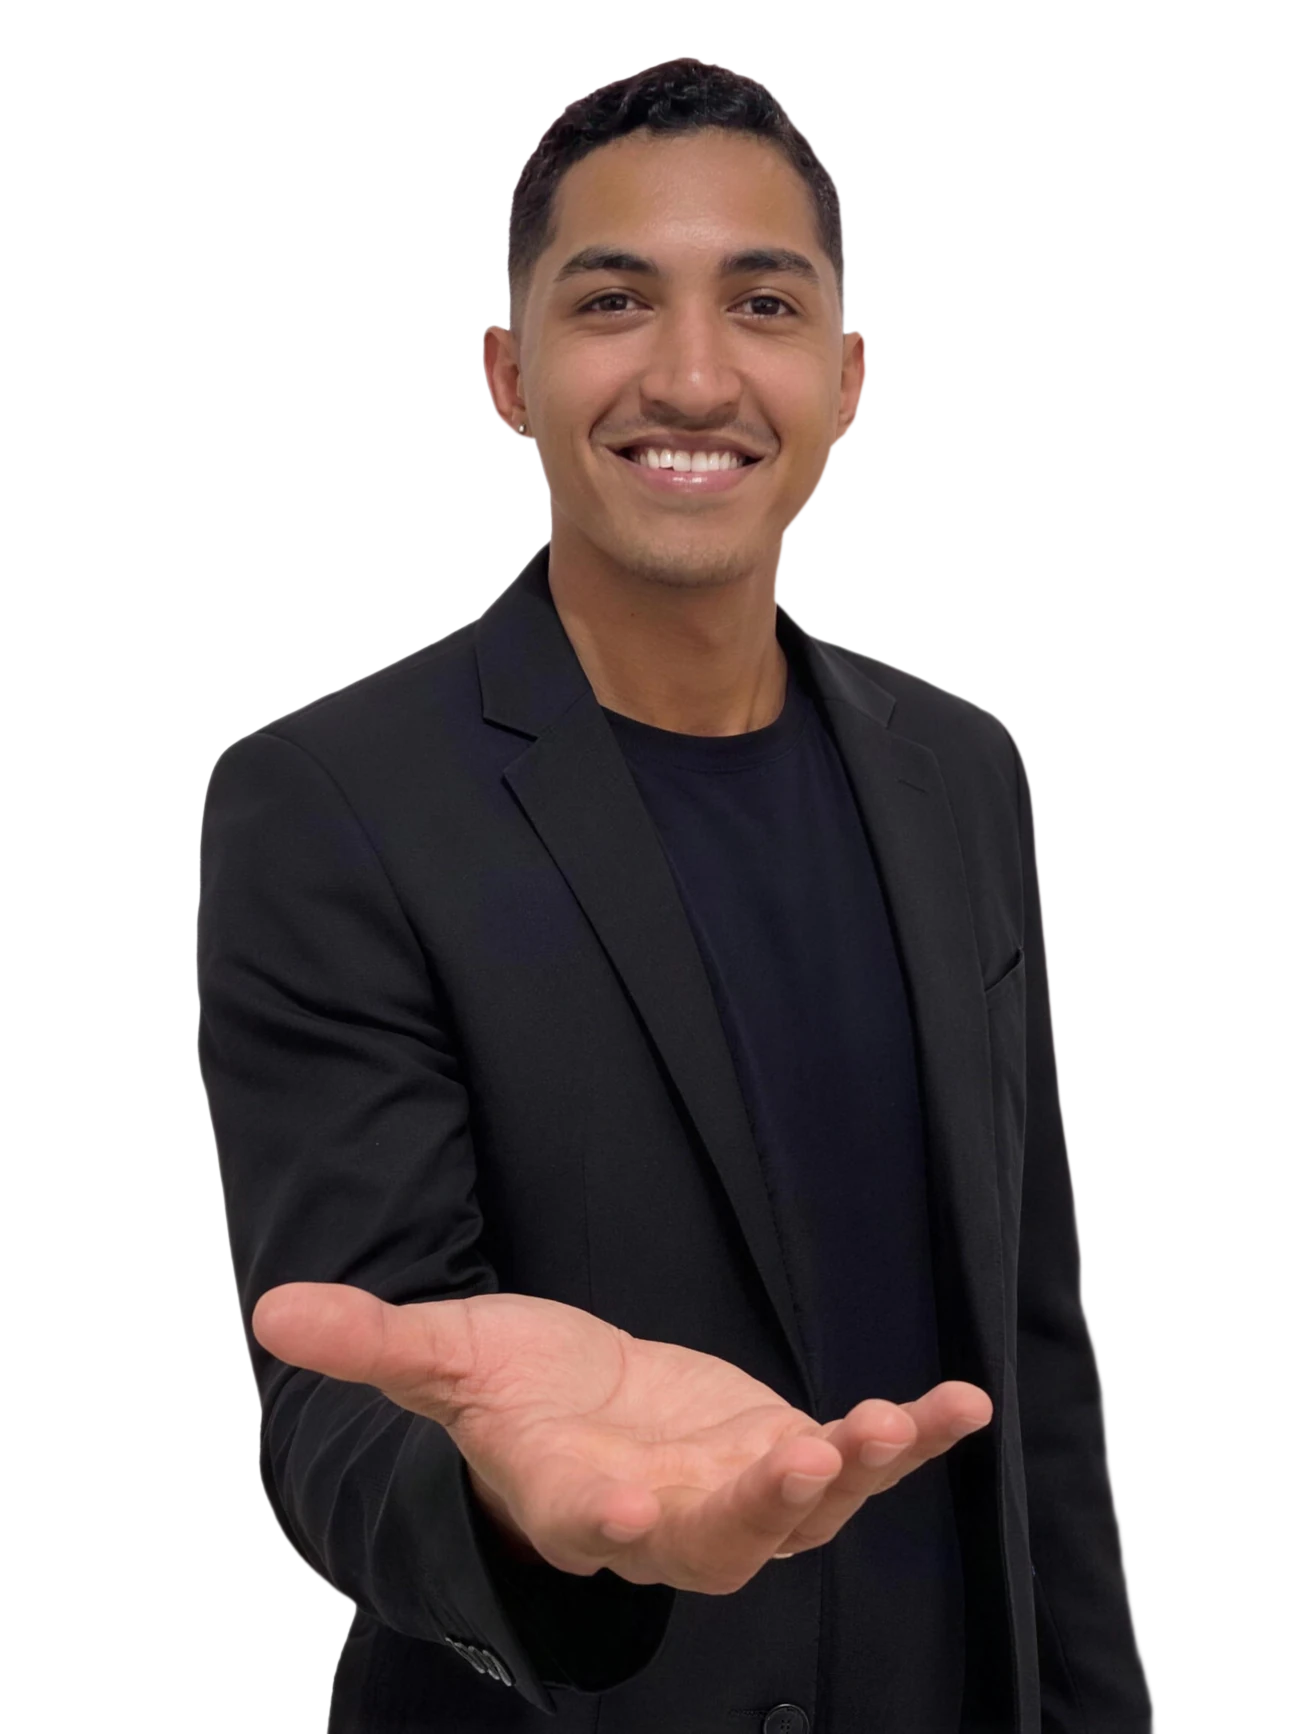
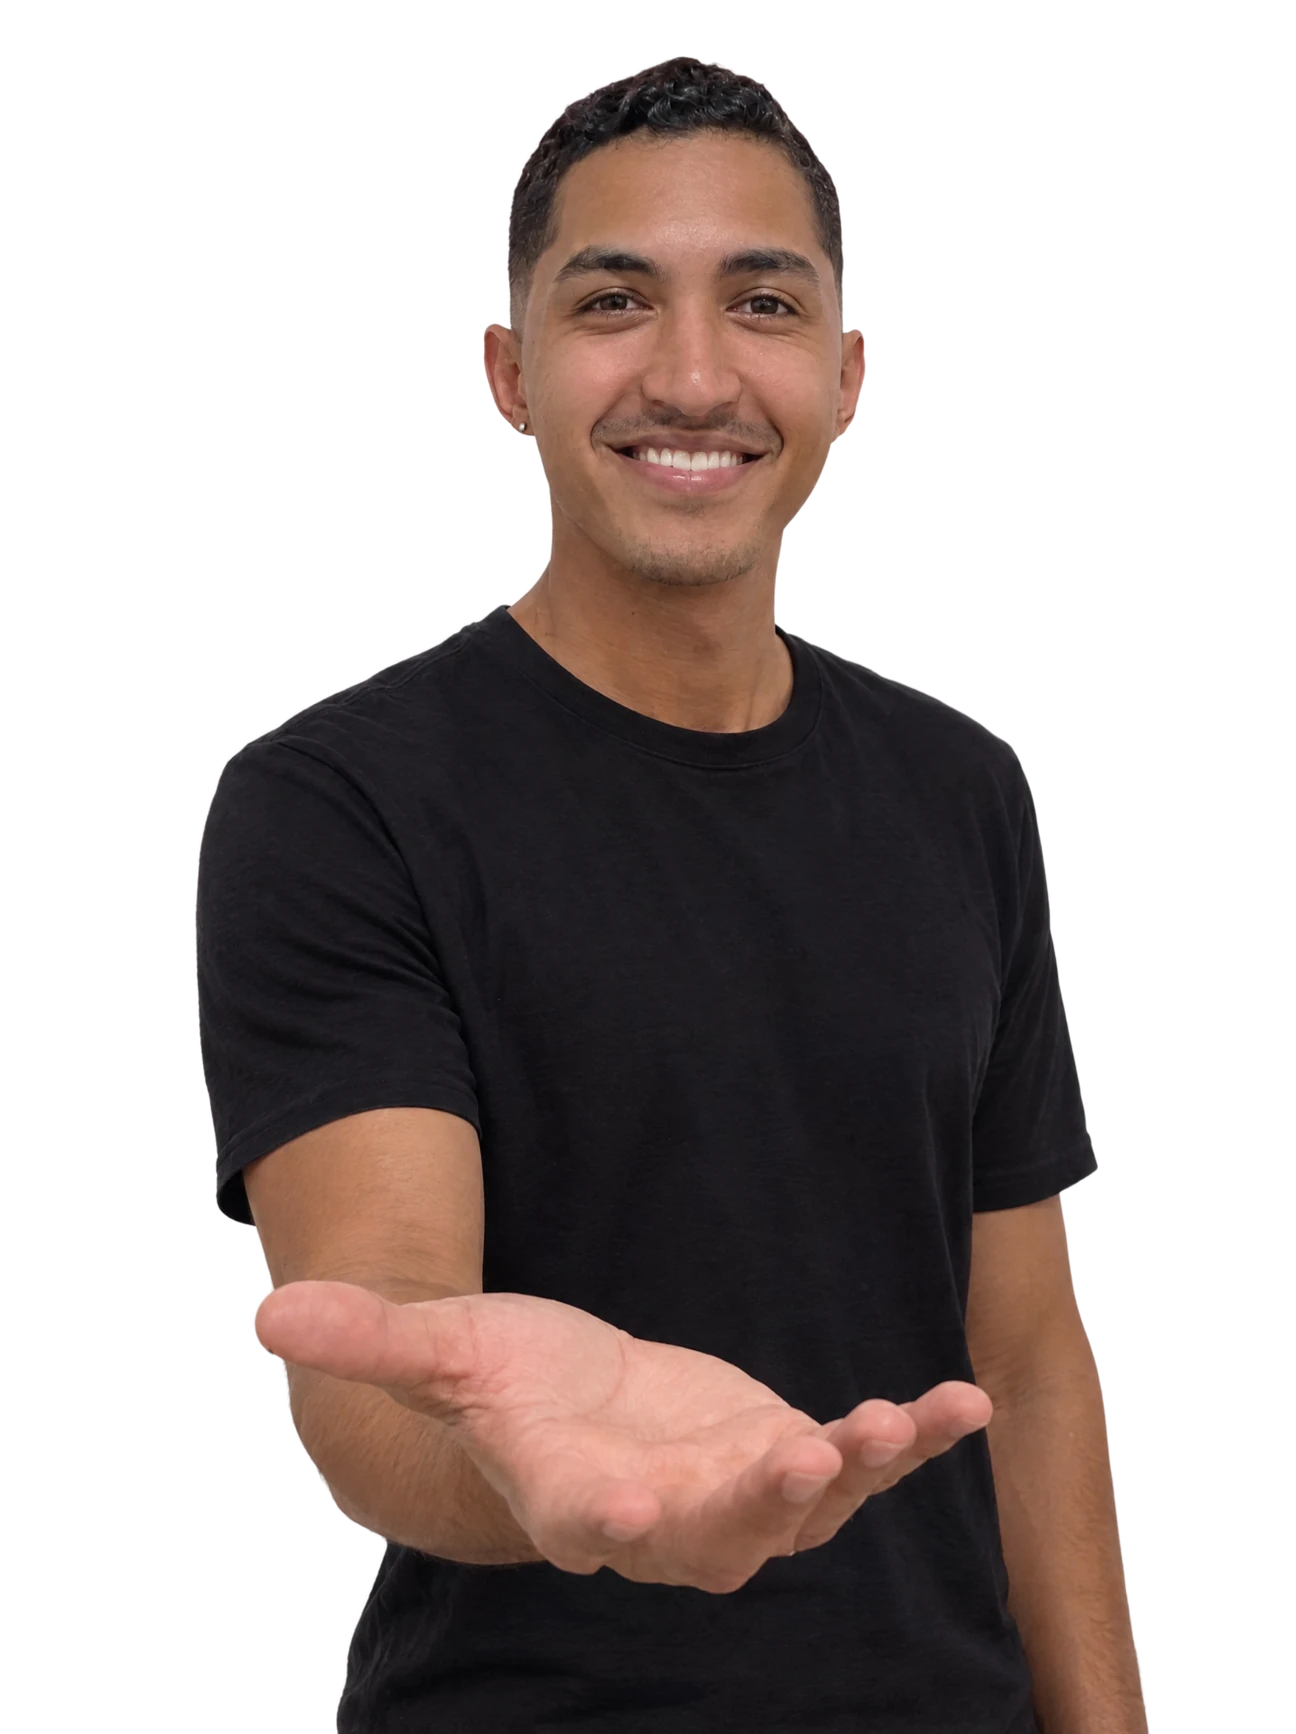
Foto do hero: sorriso mais natural e camiseta preta no lugar do blazer

diff --git a/site/index.html b/site/index.html
@@ -13,7 +13,7 @@
 <!-- fontes sem bloquear a primeira pintura -->
 <link rel="stylesheet" href="https://fonts.googleapis.com/css2?family=Manrope:wght@400;600;700&family=Outfit:wght@300;600;800&display=swap" media="print" onload="this.media='all'">
 <noscript><link rel="stylesheet" href="https://fonts.googleapis.com/css2?family=Manrope:wght@400;600;700&family=Outfit:wght@300;600;800&display=swap"></noscript>
-<link rel="preload" as="image" href="assets/illan-hero-pessoa-hd.webp" fetchpriority="high">
+<link rel="preload" as="image" href="assets/illan-hero-pessoa-hd.webp?v=2" fetchpriority="high">
 <link rel="stylesheet" href="css/style.css?v=31">
 </head>
 <body>
@@ -91,8 +91,8 @@
     <div class="hero__media">
       <span class="hero__glow" aria-hidden="true"></span>
       <!-- Illan e controle em camadas separadas (mesmo enquadramento), pra animar cada um sozinho -->
-      <div class="hero__img hero__figure" role="img" aria-label="Coach Illan sorrindo, de blazer preto, com um controle de PS5 flutuando sobre a mão aberta.">
-        <img class="hero__pessoa" src="assets/illan-hero-pessoa-hd.webp" width="1296" height="1734" fetchpriority="high" alt="">
+      <div class="hero__img hero__figure" role="img" aria-label="Coach Illan sorrindo, de camiseta preta, com um controle de PS5 flutuando sobre a mão aberta.">
+        <img class="hero__pessoa" src="assets/illan-hero-pessoa-hd.webp?v=2" width="1296" height="1734" fetchpriority="high" alt="">
         <div class="hero__controle-wrap"><img class="hero__controle" src="assets/illan-hero-controle.png" width="432" height="578" alt=""></div>
       </div>
       <figure class="float float--a">
